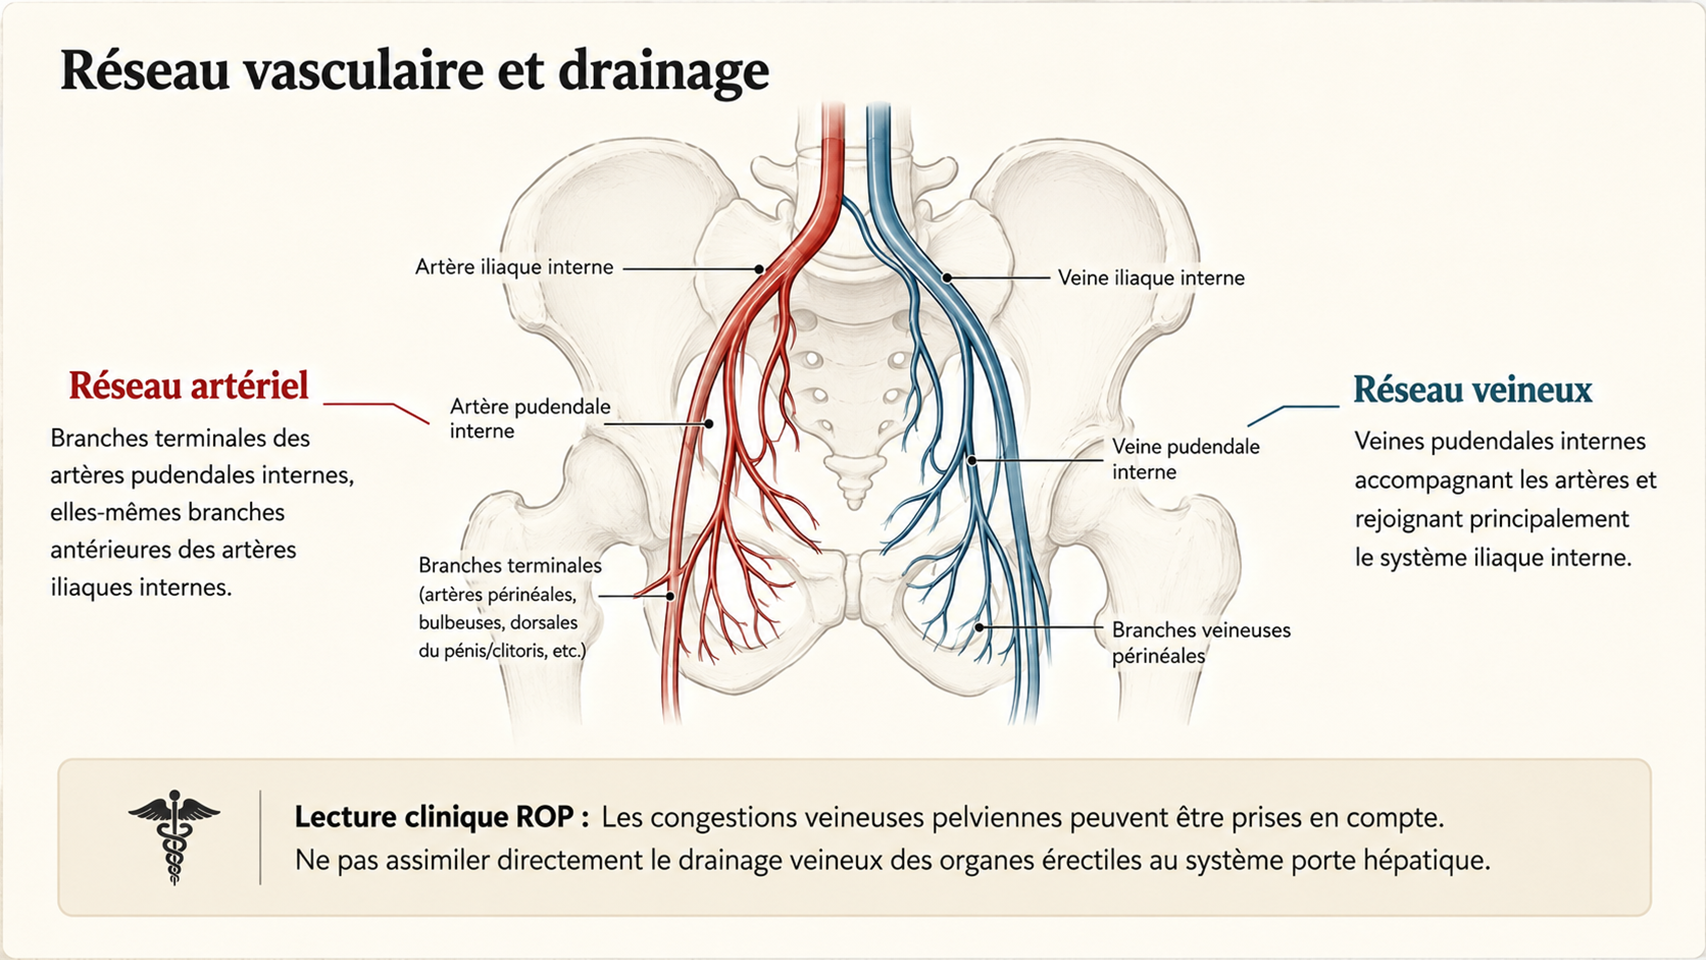
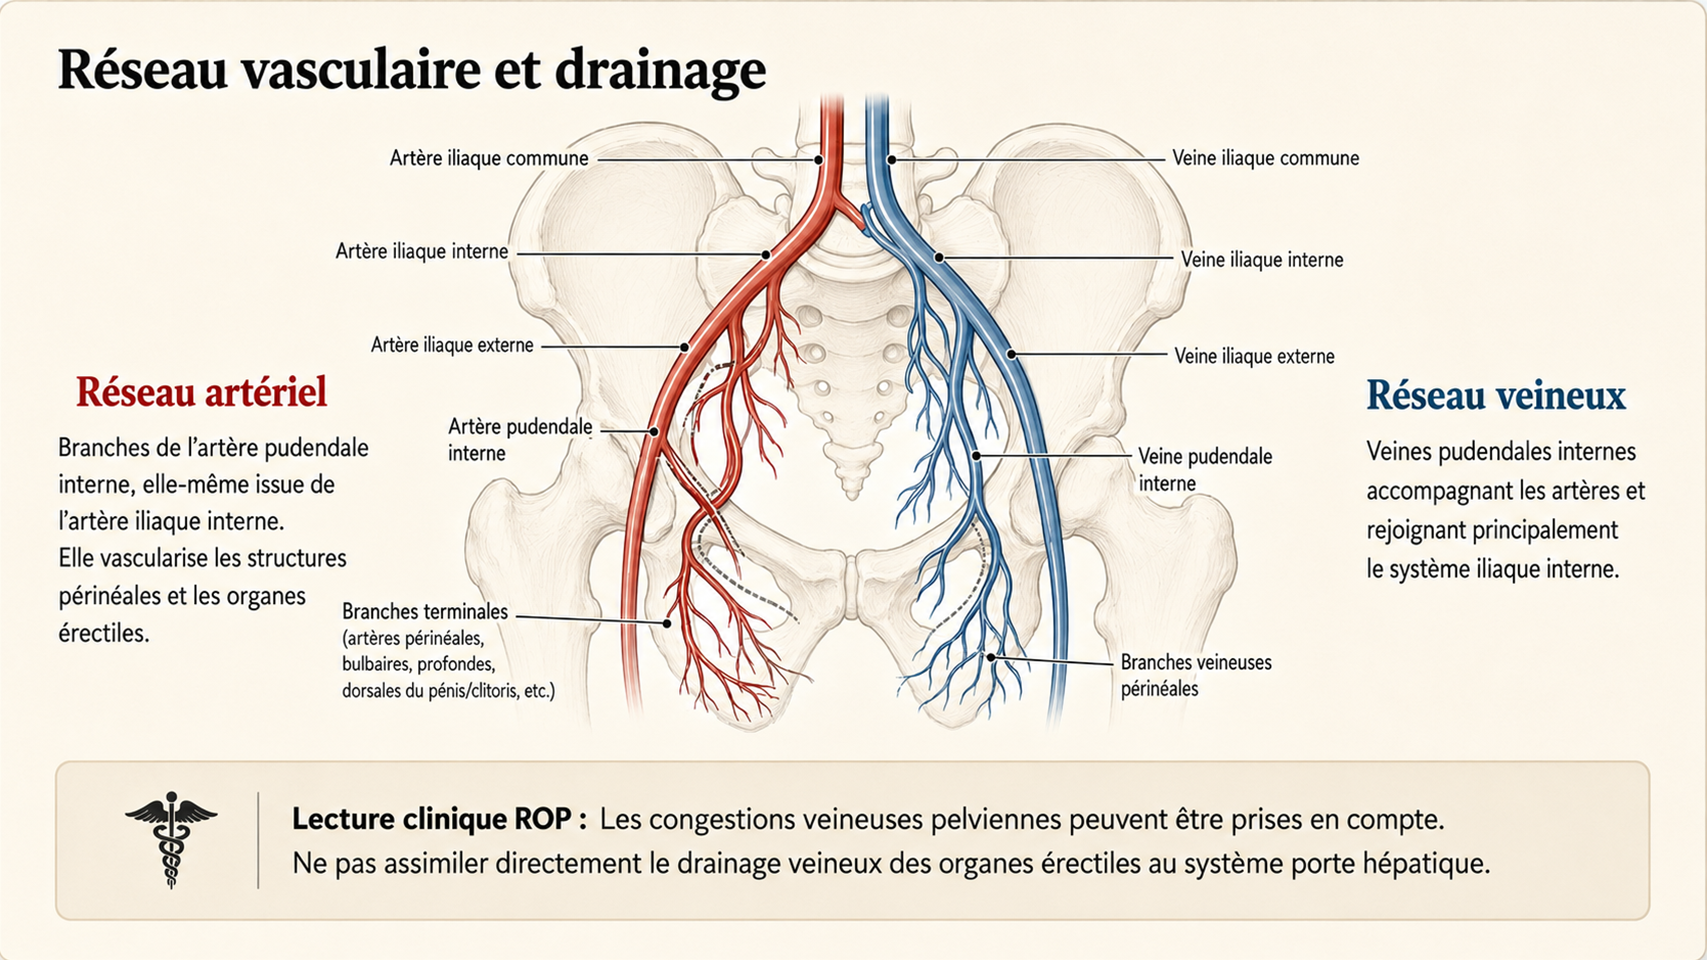
Update Chapter 21 ending slides

diff --git a/content/chapter21.slidesync.ts b/content/chapter21.slidesync.ts
@@ -18,6 +18,7 @@ export const chapter21Slides: SyncSlide[] = [
   { src: '/chapter-21/slides/slide-08.png', title: 'Pathologies courantes et facteurs associés' },
   { src: '/chapter-21/slides/slide-09.png', title: 'Relations viscéro-somatiques' },
   { src: '/chapter-21/slides/slide-10.png', title: 'La dimension psycho-émotionnelle' },
+  { src: '/chapter-21/slides/slide-11.png', title: 'Protocole clinique ROP : système érectile masculin et féminin' },
 ]
 
 export const chapter21SlideAnchors: SyncAnchor[] = [
@@ -31,6 +32,7 @@ export const chapter21SlideAnchors: SyncAnchor[] = [
   { sectionId: 'pathologies-courantes', blockIndex: -1, slide: 8 },
   { sectionId: 'relations-viscero-somatiques', blockIndex: 0, slide: 9 },
   { sectionId: 'relations-viscero-emotionnelles', blockIndex: 0, slide: 10 },
+  { sectionId: 'zones-reflexes-podales', blockIndex: -1, slide: 11 },
 ]
 
 export const chapter21HalfBreaks: SyncBreakPoint[] = [
